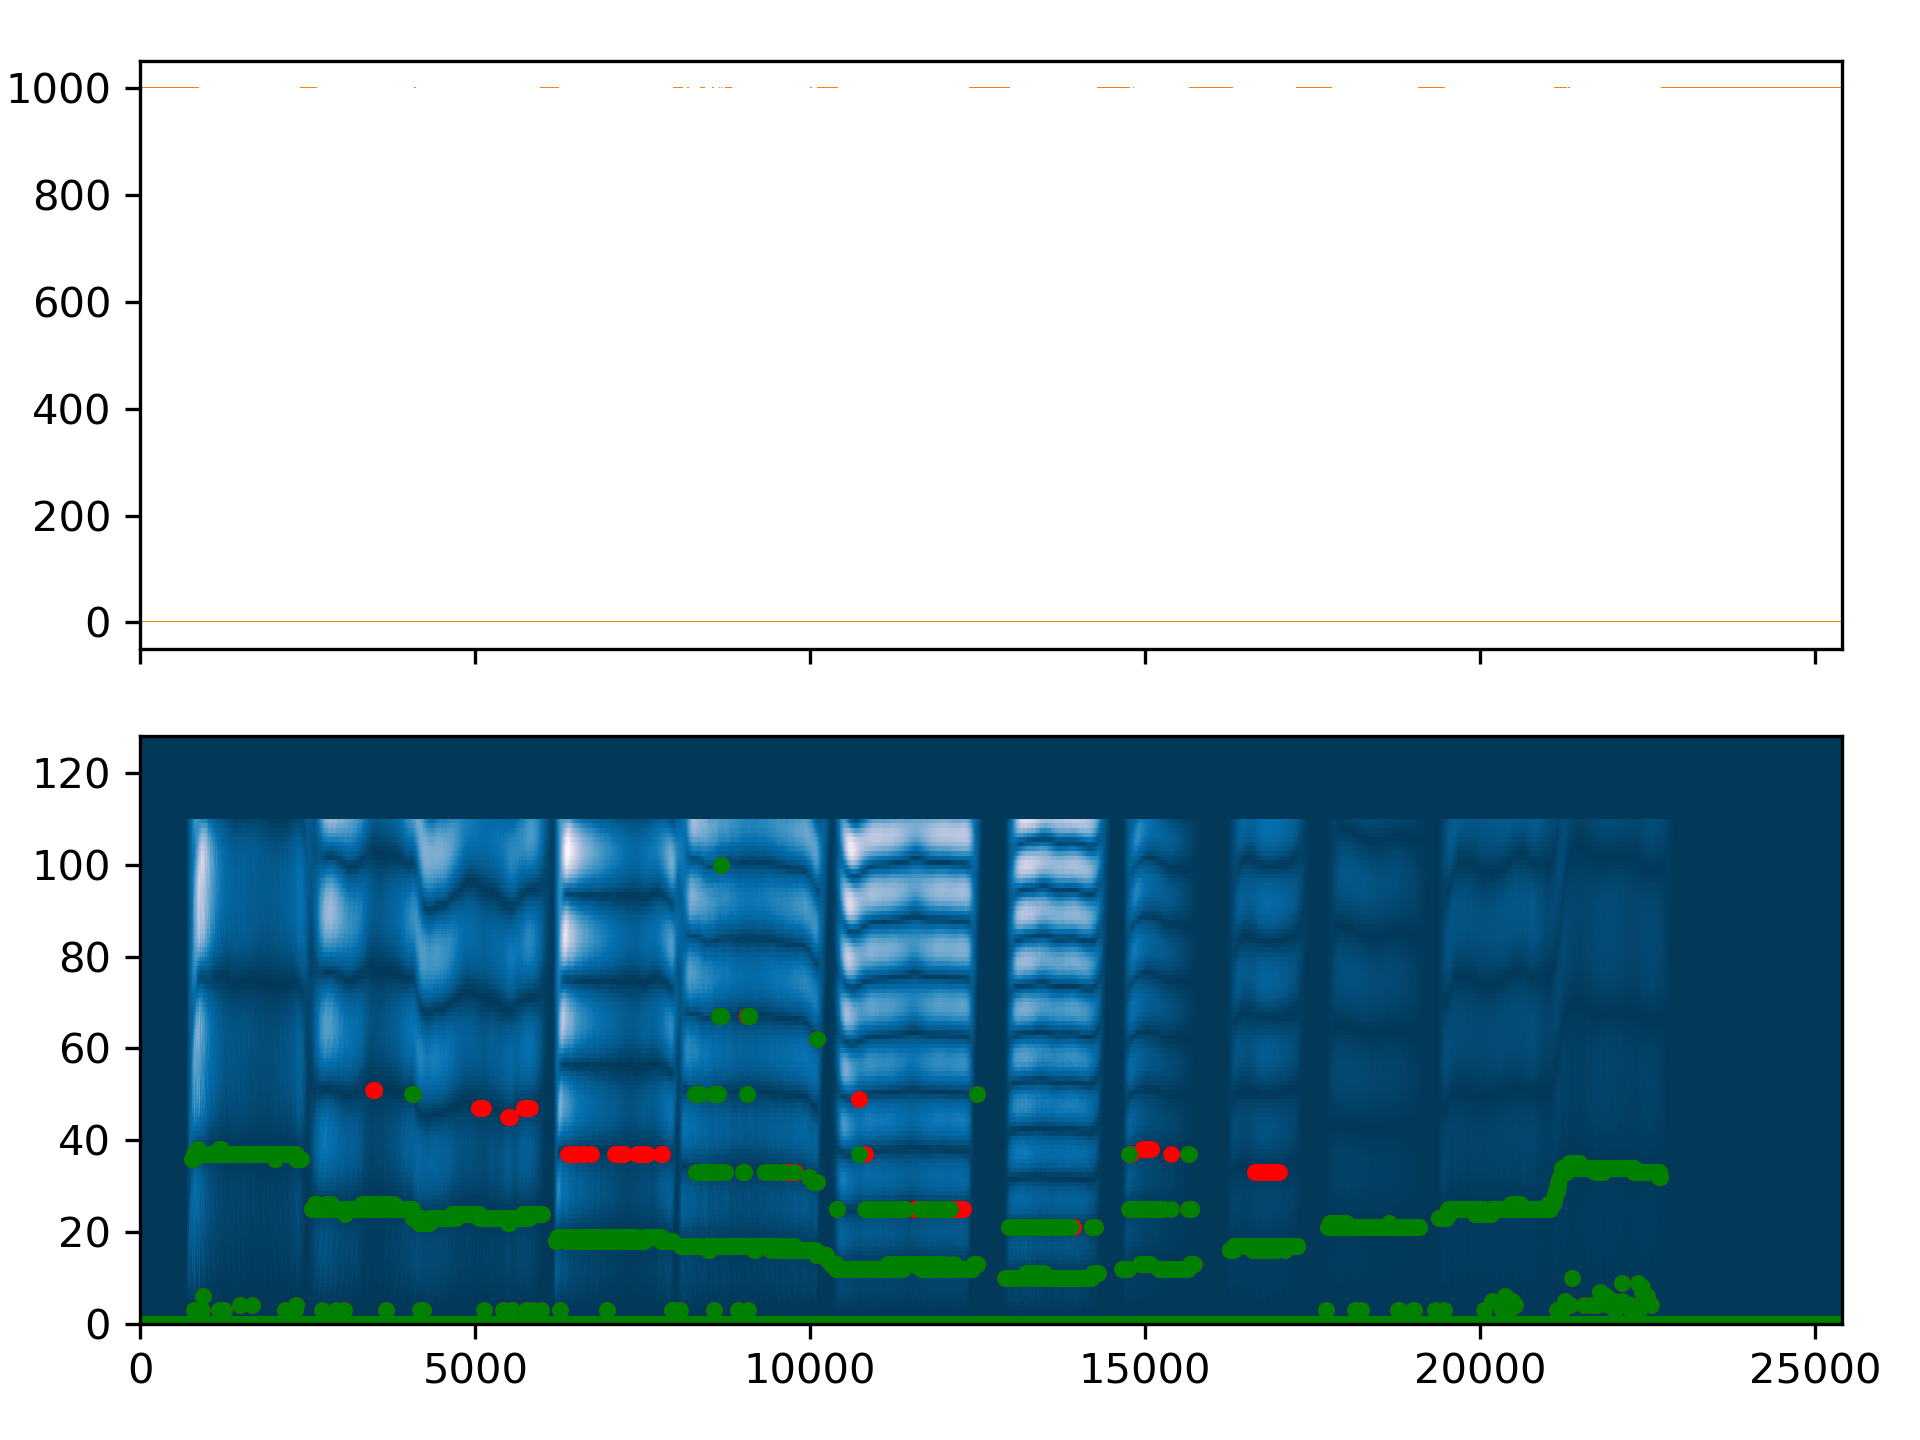
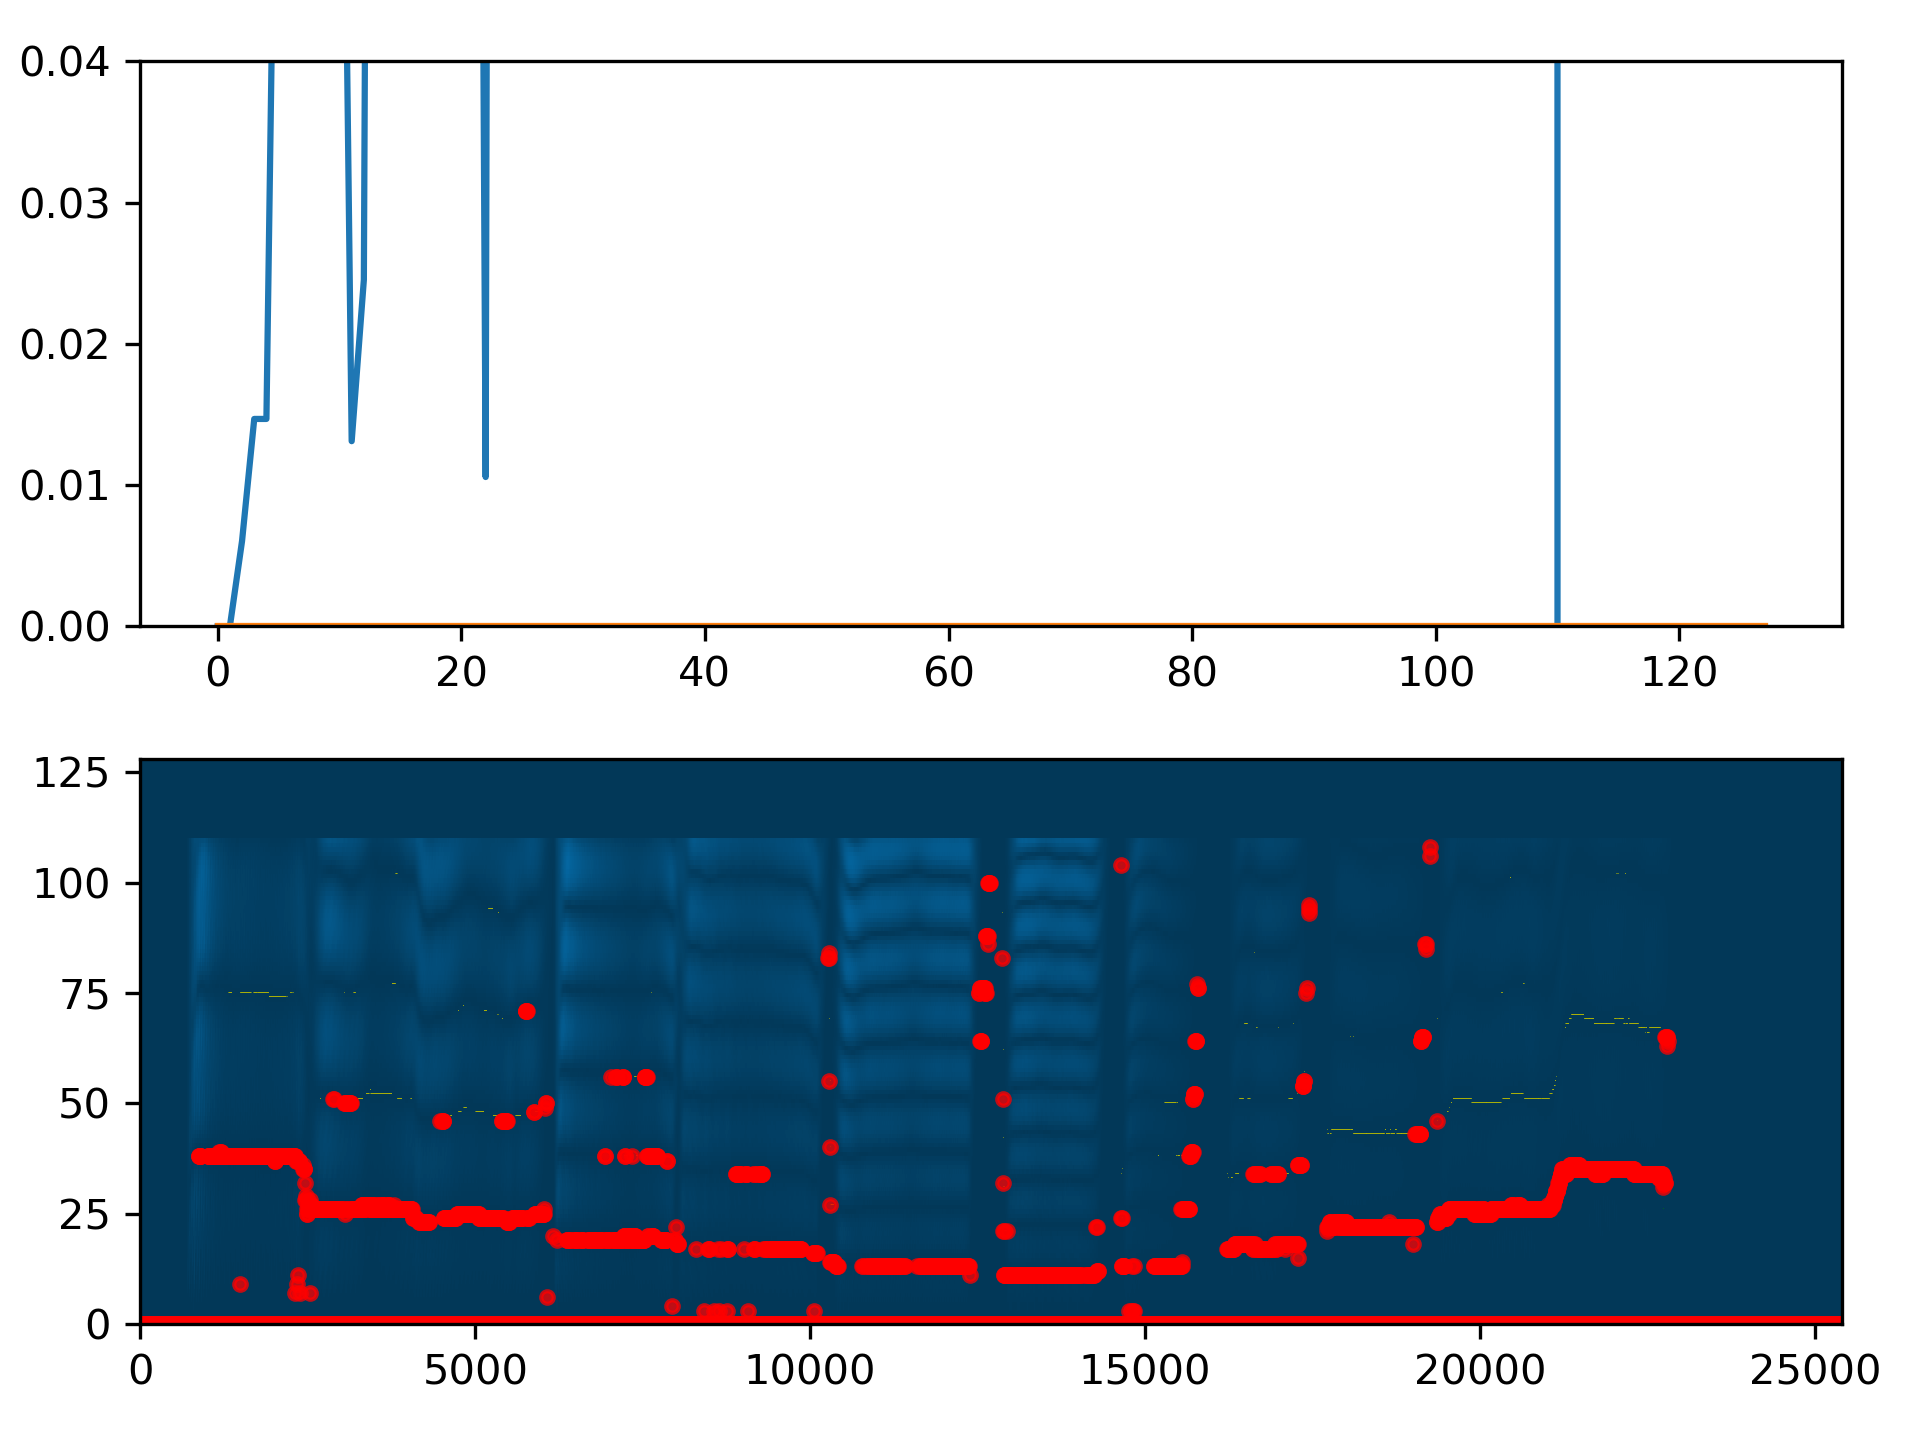
WIP: better - added scaling for lmin2, raised min_e a bit, added an extra comparison with eps for unscaled confidence

diff --git a/main.py b/main.py
@@ -6,7 +6,7 @@ from scipy.signal import find_peaks
 
 DS_FACTOR = 8
 EPS = 0.04
-MIN_E = 0.005
+MIN_E = 0.05
 
 
 def main():
@@ -49,28 +49,34 @@ def main():
             if e_cache[lag] < MIN_E:
                 continue
 
+            # TODO: deal with flat local minima a == b == c, without picking up noise in the initial ramp up
             if confidence < confidence_prev and confidence < confidence_next:
-                troughs.append(lag)
+                # we are in a local minima
+                if (e_cache[lag] - (2 * h_cache[lag])) < EPS:
+                    # we are under the non-scaled threshold
+                    if confidence < (e_cache[lag] * EPS):
+                        # we are under the scaled threshold
+                        troughs.append(lag)
 
-            if confidence <= (e_cache[lag] * EPS):
-                if region0_end > 0 and region1_end < 0:
-                    if region1_start < 0:
-                        region1_start = lag
-                    if confidence < lmin1_conf:
-                        lmin1_conf = confidence
-                        lmin1 = lag
+            # if confidence <= (e_cache[lag] * EPS):
+            #     if region0_end > 0 and region1_end < 0:
+            #         if region1_start < 0:
+            #             region1_start = lag
+            #         if confidence < lmin1_conf:
+            #             lmin1_conf = confidence
+            #             lmin1 = lag
 
-                if region0_end > 0 and region1_end > 0 and region2_end < 0:
-                    if region2_start < 0:
-                        region2_start = lag
-                    if confidence < lmin2_conf:
-                        lmin2_conf = confidence
-                        lmin2 = lag
-            else:
-                if region1_start > 0 and region1_end < 0:
-                    region1_end = lag - 1
-                elif region1_end > 0 and region2_start > 0 and region2_end < 0:
-                    region2_end = lag - 1
+            #     if region0_end > 0 and region1_end > 0 and region2_end < 0:
+            #         if region2_start < 0:
+            #             region2_start = lag
+            #         if confidence < lmin2_conf:
+            #             lmin2_conf = confidence
+            #             lmin2 = lag
+            # else:
+            #     if region1_start > 0 and region1_end < 0:
+            #         region1_end = lag - 1
+            #     elif region1_end > 0 and region2_start > 0 and region2_end < 0:
+            #         region2_end = lag - 1
 
             frame[lag] = confidence
             confidence_prev = confidence
@@ -96,9 +102,11 @@ def main():
             lmin2_is_valid = lmin2 > 0 and lmin2 < 110
 
             # and then compare the confidences (already scaled for the lag relative to E for a fair comparison)
-            if lmin2_is_valid and lmin2_conf < lmin2_conf:
+            if lmin2_is_valid and (lmin2_conf * 3) < lmin1_conf:
+                frame[lmin2] = lmin2_conf * 3
                 lmin = lmin2
             else:
+                frame[lmin2] = lmin2_conf * 3
                 lmin = lmin1
         else:
             lmin1 = 0
@@ -255,25 +263,26 @@ def main():
     plt.tight_layout()
     # axs[0].plot(conf_output[0], ',')
     # axs[0].plot(conf_output[1], ',')
-    axs[0].plot(frame_output[9007])
+    fr = 13048
+    axs[0].plot(frame_output[fr])
 
     tmp_troughs = np.zeros(128)
 
-    if (len(troughs_output[9007]) > 0):
-        tmp_troughs[troughs_output[9007]] = EPS
+    if (len(troughs_output[fr]) > 0):
+        tmp_troughs[troughs_output[fr]] = EPS
     axs[0].plot(tmp_troughs)
-    axs[0].plot(lmin_output[0][9007], conf_output[0][9007])
-    axs[0].plot(lmin_output[1][9007], conf_output[1][9007])
-    breakpoint()
-    axs[0].set_xlim(0, 60)
+    axs[0].plot(lmin_output[0][fr], conf_output[0][fr])
+    axs[0].plot(lmin_output[1][fr], conf_output[1][fr])
+    print(f"chosen lmin: {lmin_output[2][fr]}")
+    # axs[0].set_xlim(0, 60)
     axs[0].set_ylim(0, EPS)
     axs[1].pcolormesh(np.array(frame_output).T,
                       norm=colors.PowerNorm(gamma=0.5),
                       cmap='PuBu_r',
                       shading='auto')
     axs[1].plot(lmin_output[1], ',', color=colors.to_rgba('y', 0.5))
-    axs[1].plot(lmin_output[0], '.', color=colors.to_rgba('g', 0.5))
-    axs[1].plot(lmin_output[2], ',', color=colors.to_rgba('r', 0.75))
+    axs[1].plot(lmin_output[0], ',', color=colors.to_rgba('g', 0.5))
+    axs[1].plot(lmin_output[2], '.', color=colors.to_rgba('r', 0.75))
     # axs[1].plot(ds_wave_output)
     plt.savefig('bobby.png', dpi=300)
     import subprocess
